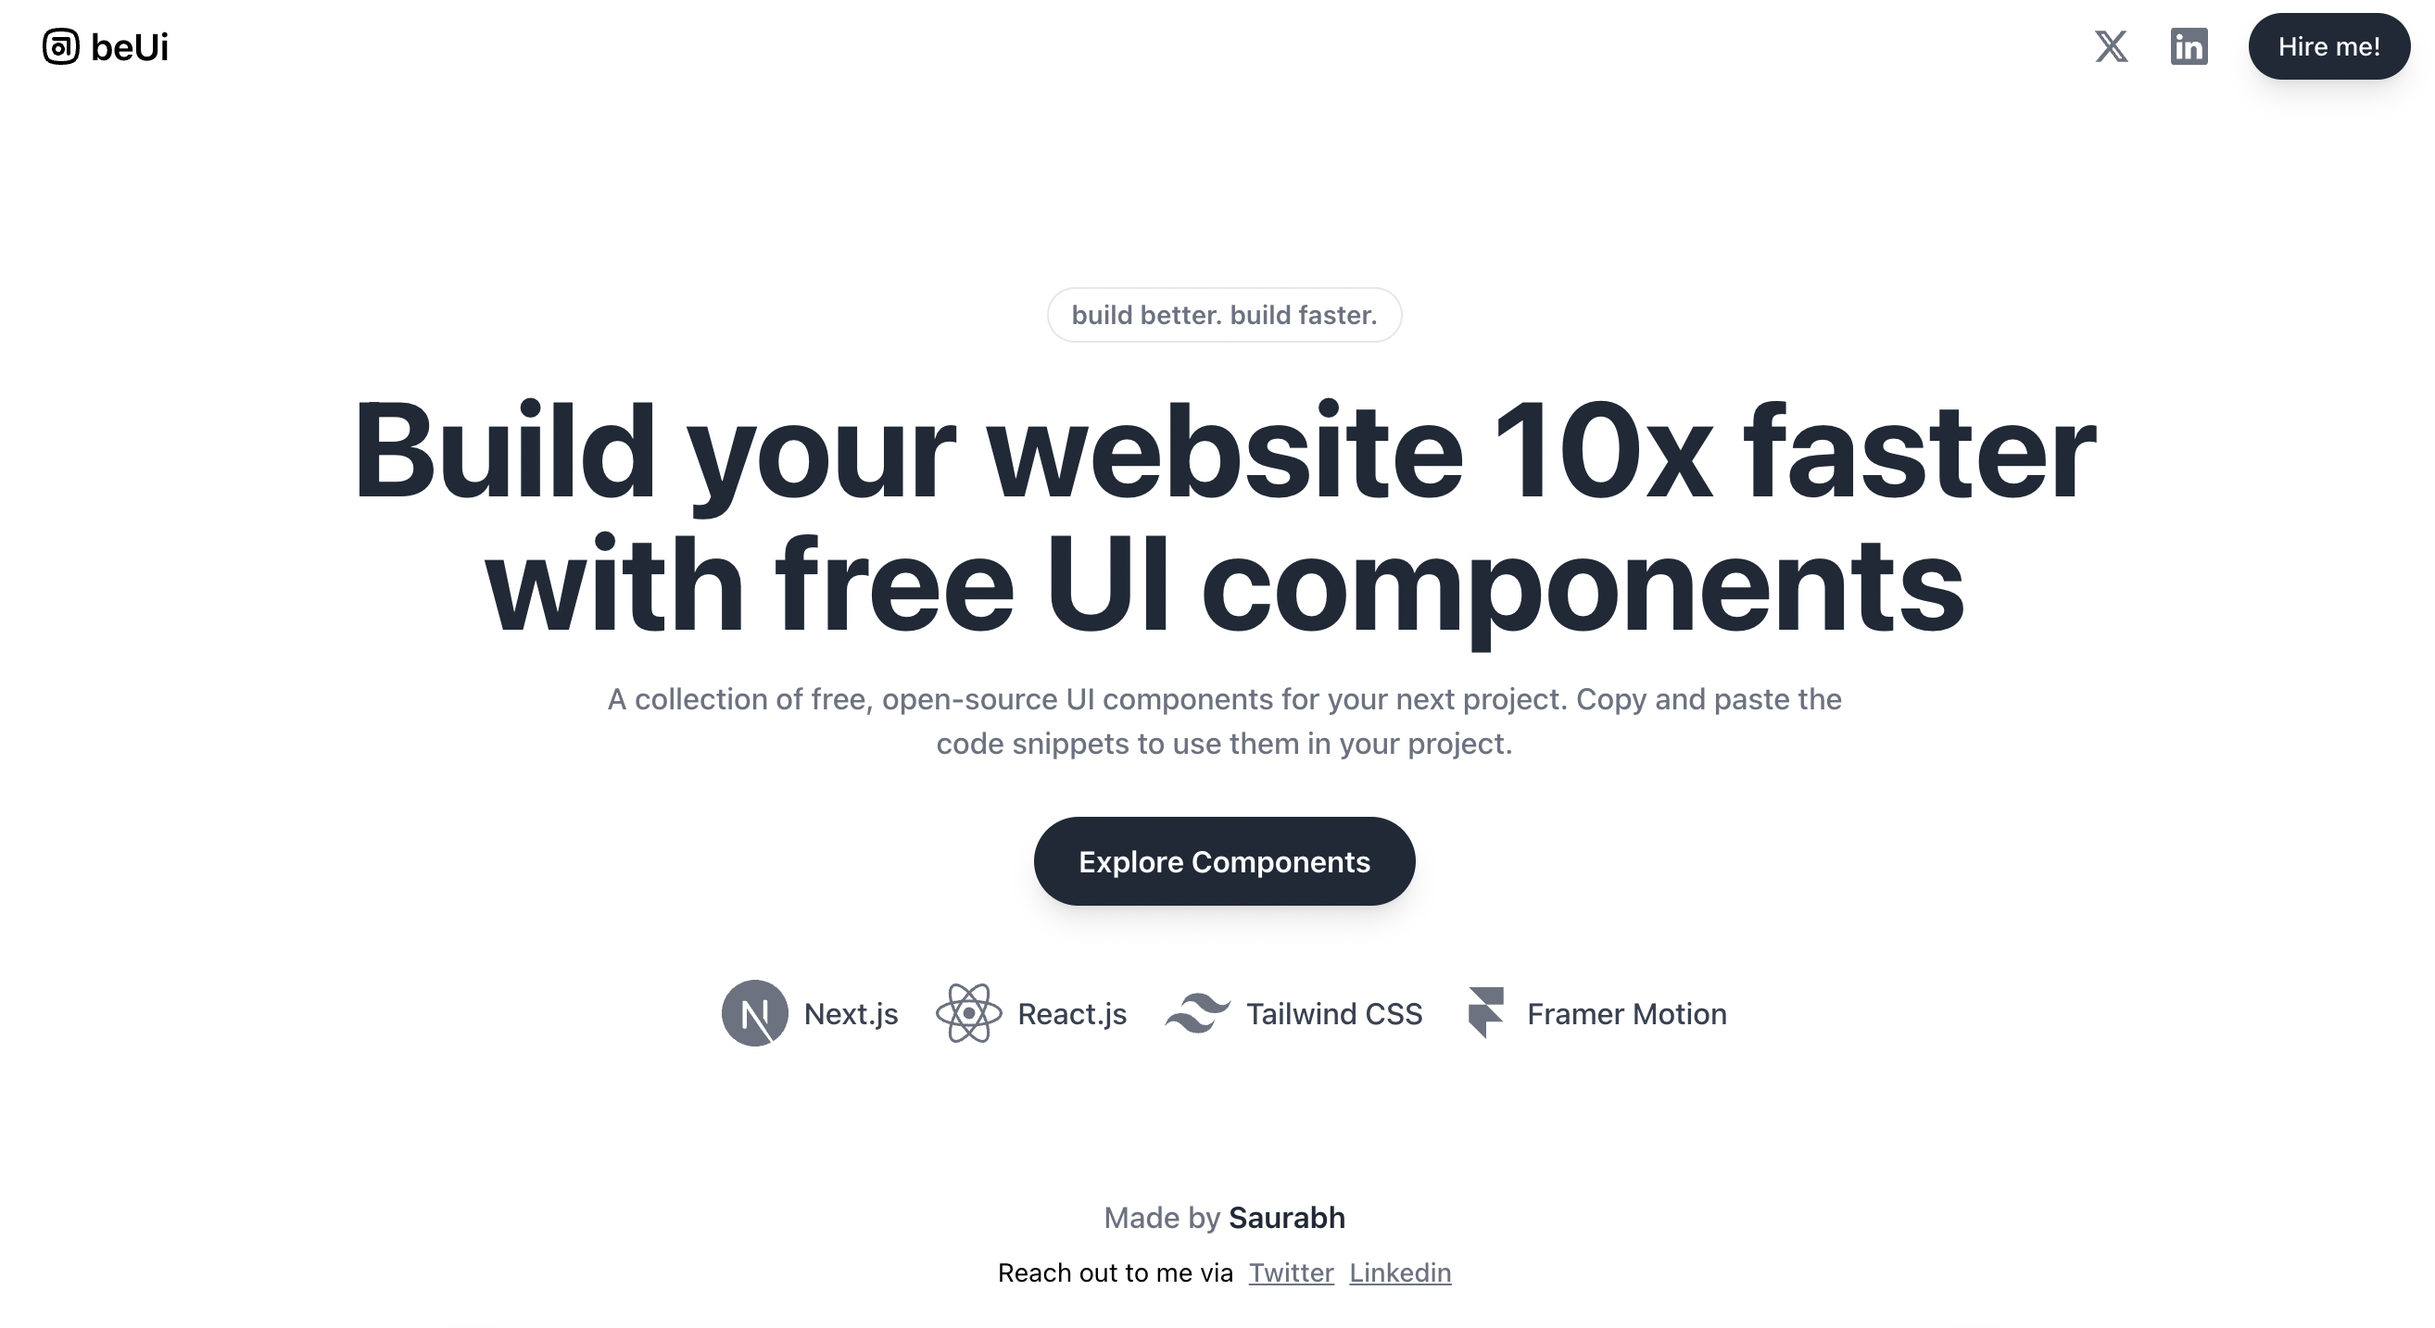
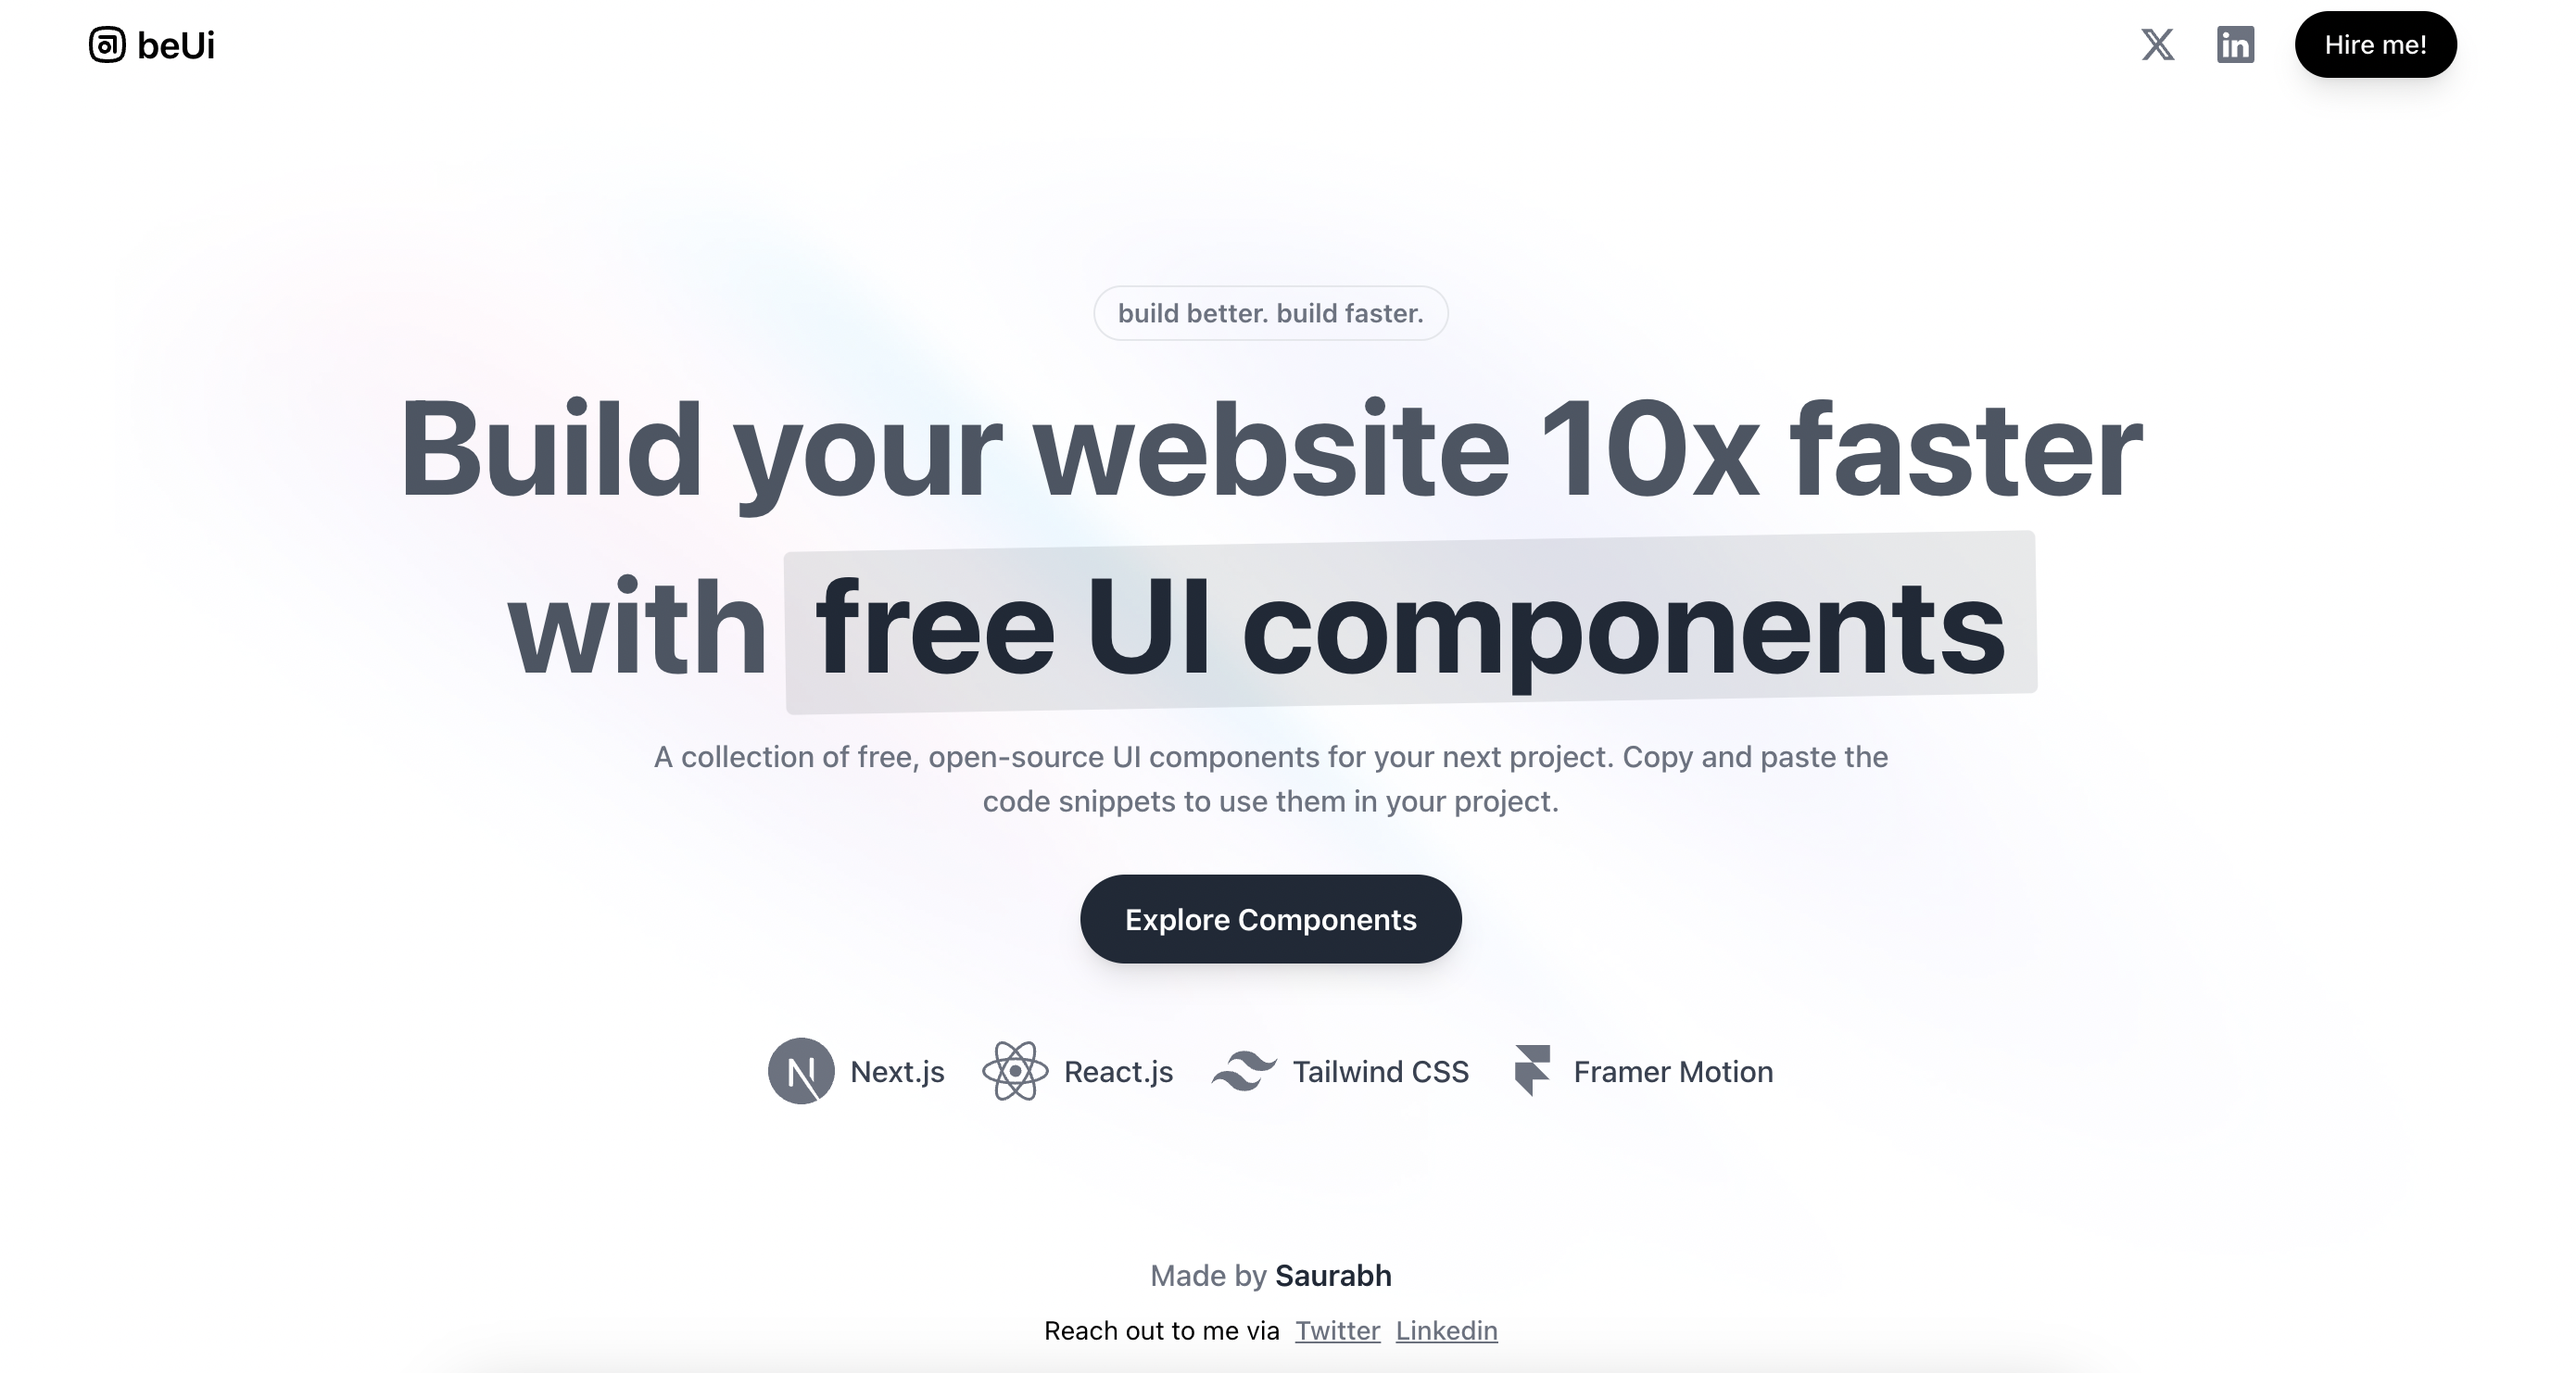
add: background image in landing page

diff --git a/src/Pages/Home/home.main.tsx b/src/Pages/Home/home.main.tsx
@@ -1,10 +1,16 @@
 import { Footer } from "@/components/appComp";
 import { Link } from "react-router-dom";
 import { motion } from "framer-motion";
+import gradBg from "@/assets/gradBg.jpg";
 
 const Home = () => {
   return (
     <section className="relative md:pt-24 pt-20">
+      <img
+        src={gradBg}
+        alt="bg"
+        className="absolute top-0 -z-10 opacity-30 left-0 w-full h-full object-cover" // bg image
+      />
       <motion.div
         initial={{ opacity: 0, y: -30 }}
         animate={{ opacity: 1, y: 0 }}
@@ -14,8 +20,11 @@ const Home = () => {
         <p className="text-gray-500 font-semibold border rounded-full w-max px-3 py-1 text-sm mx-auto cursor-pointer hover:text-gray-700/90 hover:border-gray-700/80 transition-colors duration-300">
           build better. build faster.
         </p>
-        <h1 className="text-gray-800 font-bold text-4xl md:text-7xl mt-5">
-          Build your website 10x faster with free UI components
+        <h1 className="text-gray-600 font-bold text-3xl sm:text-5xl lg:text-7xl mt-5">
+          Build your website 10x faster with
+          <span className="inline-block mt-4 -rotate-1 bg-gray-800/10 text-gray-800 px-4 py-2 rounded ml-2">
+            <span className="block rotate-1"> free UI components</span>
+          </span>{" "}
         </h1>
 
         <h5 className="mt-4 max-w-2xl mx-auto font-medium text-gray-500">

diff --git a/src/components/appComp/Navbar/navbar.main.tsx b/src/components/appComp/Navbar/navbar.main.tsx
@@ -57,7 +57,7 @@ const Navbar = () => {
             href="https://calendly.com/saurra3h/intro"
             target="_blank"
             rel="noreferrer nofollow"
-            className="relative before:shadow-lg flex h-9 w-full items-center justify-center px-4 before:absolute before:inset-0 before:rounded-full before:bg-gray-800 before:transition before:duration-300 hover:before:scale-105 active:duration-75 active:before:scale-95 sm:w-max"
+            className="relative before:shadow-lg flex h-9 w-full items-center justify-center px-4 before:absolute before:inset-0 before:rounded-full before:bg-black before:transition before:duration-300 hover:before:scale-105 active:duration-75 active:before:scale-95 sm:w-max"
           >
             <span className="relative text-sm font-medium text-white">
               Hire me!

diff --git a/tailwind.config.js b/tailwind.config.js
@@ -2,7 +2,11 @@
 export default {
   content: ["./index.html", "./src/**/*.{js,ts,jsx,tsx}"],
   theme: {
-    extend: {},
+    extend: {
+      colors: {
+        primary: "#508EF7",
+      },
+    },
   },
   plugins: [],
 };
